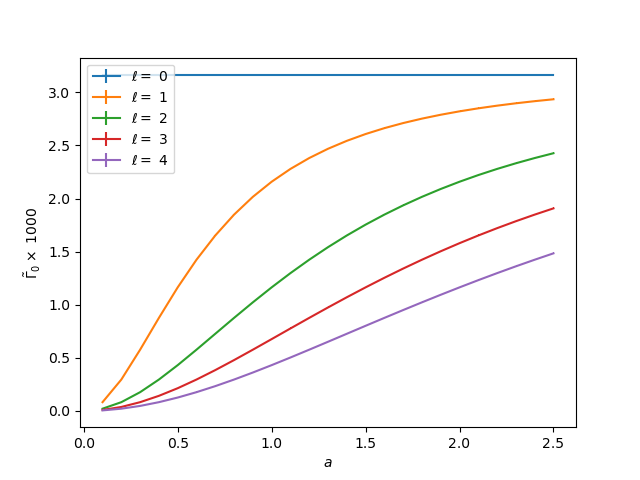
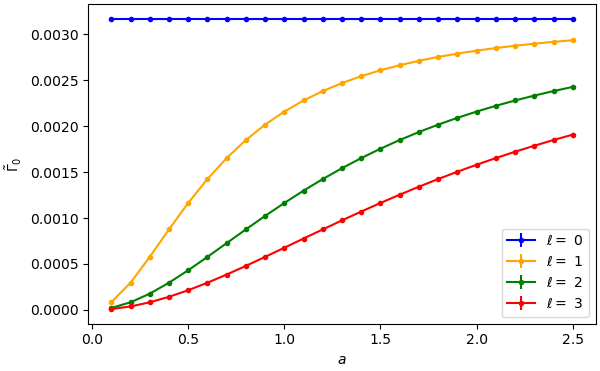
update zero-temperature vertex plot

diff --git a/plot_zero_temp_vertex_data.py b/plot_zero_temp_vertex_data.py
@@ -13,16 +13,15 @@ a_arr = np.array(data['a_list'])
 vertex_val_arr = np.array(data['vertex_val_data'])
 vertex_err_arr = np.array(data['vertex_err_data'])
 
-num_plots = len(el_arr)
-scale = 1e3
-fig, ax = plt.subplots()
-for p in range(num_plots):
-    ax.errorbar(x=a_arr, y=vertex_val_arr[p] * scale, 
-                yerr=vertex_err_arr[p] * scale,
-                fmt=',-',
+colors = ['blue', 'orange', 'green', 'red']
+
+fig, ax = plt.subplots(layout='constrained', figsize=(6, 3.71))
+for p in range(len(el_arr) - 1):
+    ax.errorbar(x=a_arr, y=vertex_val_arr[p],
+                yerr=vertex_err_arr[p],
+                fmt='.-', color=colors[p],
                 label=r'$\ell=$ {}'.format(el_arr[p]))
     ax.set_xlabel(r'$a$')
-    h_label = r'$\tilde{\Gamma}_{0} \times$ ' + str(int(scale))
-    ax.set_ylabel(h_label)
-    ax.legend(loc='upper left')
+    ax.set_ylabel(r'$\tilde{\Gamma}_{0}$')
+    ax.legend(loc='lower right')
 plt.show()
